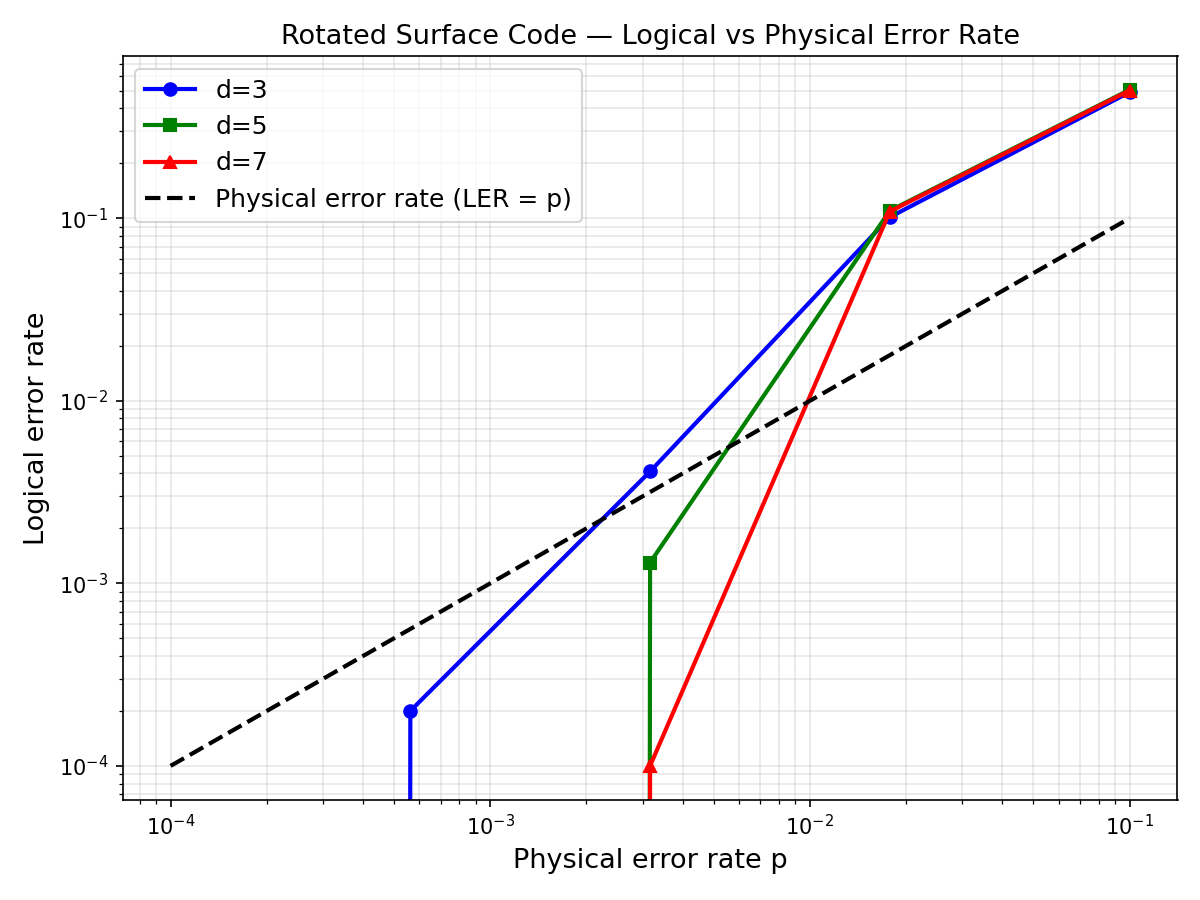
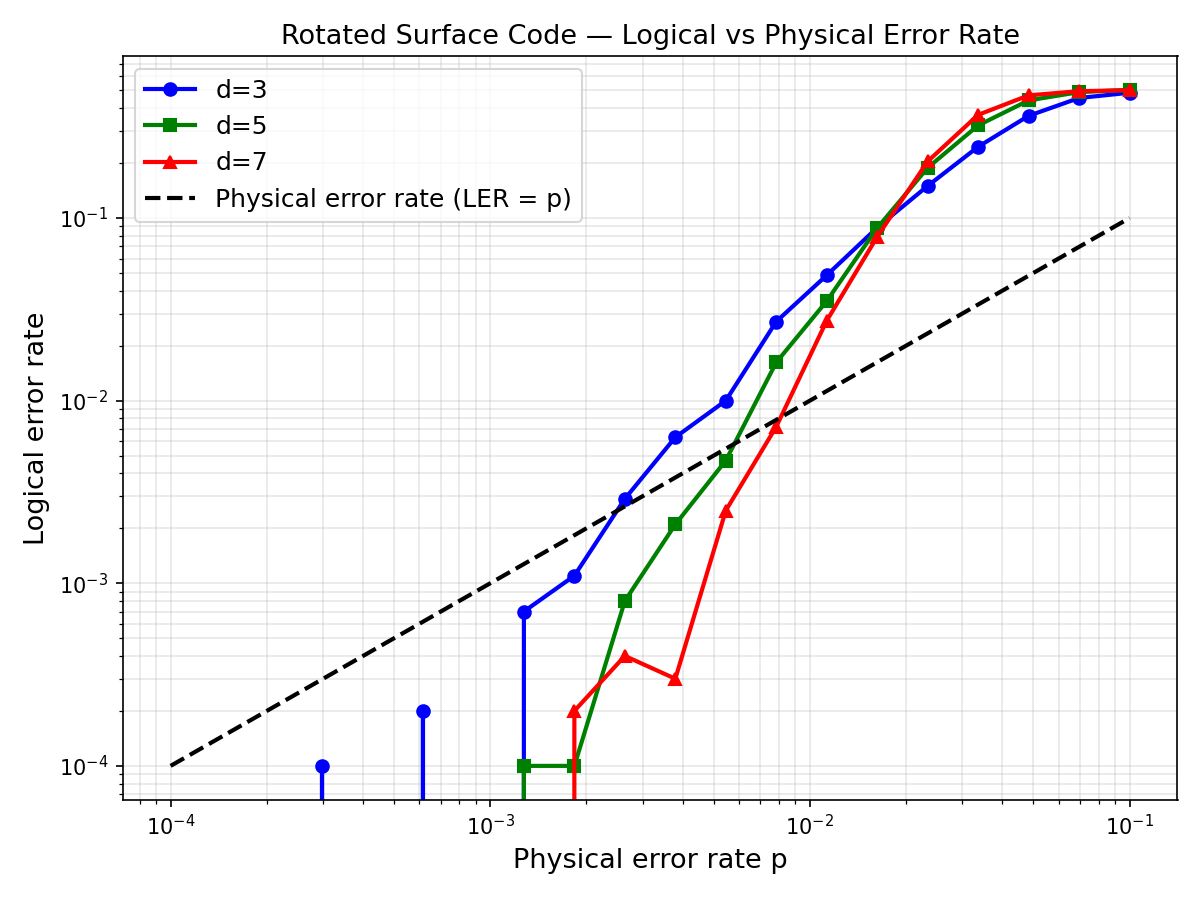
Extended to work with MrAnderson Simulator

diff --git a/src/quantum_gates/_utility/RotatedSurfaceCodeLoom.py b/src/quantum_gates/_utility/RotatedSurfaceCodeLoom.py
@@ -19,7 +19,7 @@ from loom_rotated_surface_code.code_factory import RotatedSurfaceCode
 import stim
 
 from quantum_gates.simulators import MrAndersonSimulator
-from quantum_gates.gates import standard_gates, NoiseFreeGates
+from quantum_gates.gates import standard_gates, noise_free_gates
 from quantum_gates.circuits import EfficientCircuit
 from quantum_gates.utilities import DeviceParameters
 
@@ -78,9 +78,9 @@ class RotatedSurfaceCodeLoom:
         backend = FakeBrisbane() 
         qubits_layout = list(range(self.n_qubits))
         if self.noise:
-            set_gate = NoiseFreeGates
-        else:
             set_gate = standard_gates
+        else:
+            set_gate = noise_free_gates
         bit_flip_bool = False
         sim = MrAndersonSimulator(gates=set_gate, CircuitClass=EfficientCircuit)
 
@@ -184,9 +184,9 @@ class RotatedSurfaceCodeLoom:
         backend = FakeBrisbane() 
         
         if self.noise:
-            set_gate = NoiseFreeGates
-        else:
             set_gate = standard_gates
+        else:
+            set_gate = noise_free_gates
         bit_flip_bool = False
         sim = MrAndersonSimulator(gates=set_gate, CircuitClass=EfficientCircuit)
 
@@ -257,6 +257,8 @@ class RotatedSurfaceCodeLoom:
 
     def run_circ(self, simulator="MrAnderson"):
         if simulator == "MrAnderson":
+            self.qiskit_circuit.barrier()
+            self.qiskit_circuit.x(range(self.qiskit_circuit.num_qubits))
             qiskit_result = self.MrAnderson_run_circ()
             print("MrAnderson result:", qiskit_result)
         elif simulator == "AER":